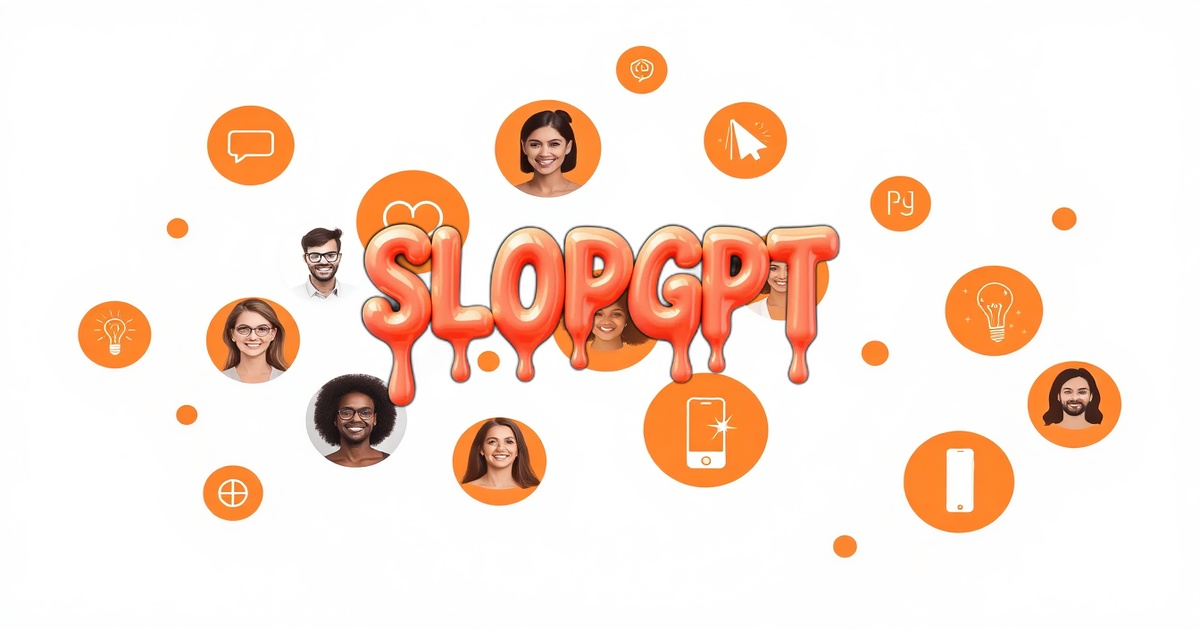
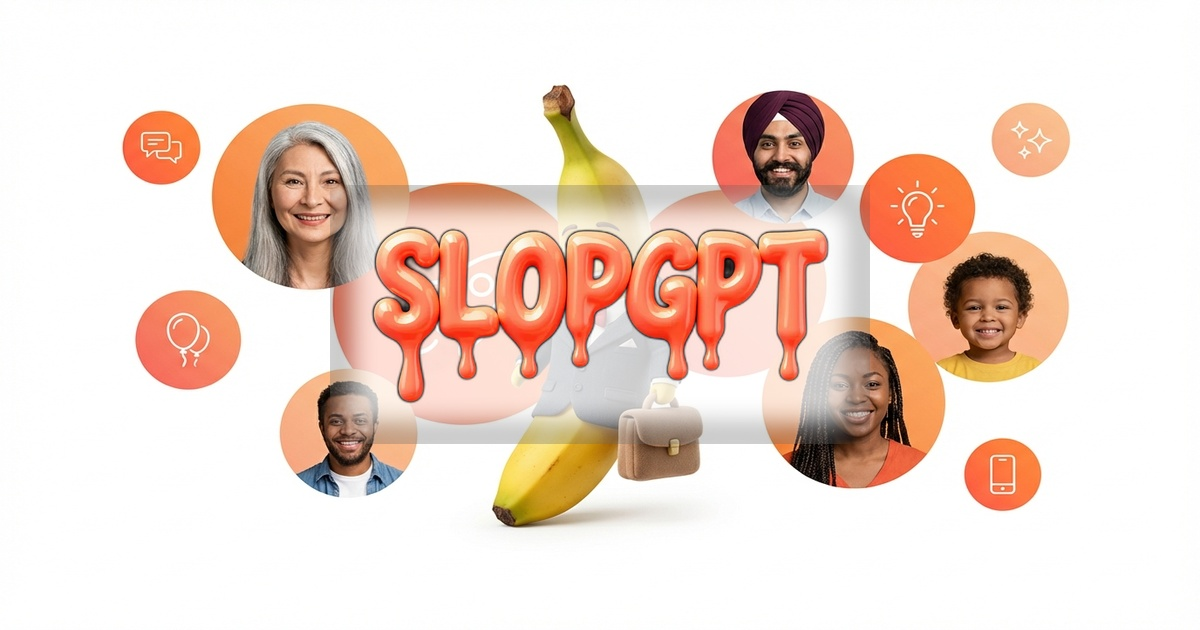
feat: OG image with user's banana mascot design + contrast glow

diff --git a/index.html b/index.html
@@ -19,11 +19,11 @@
     <meta property="og:title" content="SlopGPT - AI that doesn't take itself too seriously" />
     <meta property="og:description" content="Unhinged but helpful AI for creative chaos. Party themes, brainstorming, weird ideas - we don't judge." />
     <meta property="og:url" content="https://slopgpt.com" />
-    <meta property="og:image" content="https://slopgpt.com/og-image.jpg?v=6" />
+    <meta property="og:image" content="https://slopgpt.com/og-image.jpg?v=7" />
     <meta property="og:image:width" content="1200" />
     <meta property="og:image:height" content="630" />
     <meta name="twitter:card" content="summary_large_image" />
-    <meta name="twitter:image" content="https://slopgpt.com/og-image.jpg?v=6" />
+    <meta name="twitter:image" content="https://slopgpt.com/og-image.jpg?v=7" />
     <link rel="canonical" href="https://slopgpt.com/" />
 
     <!-- Favicon -->
